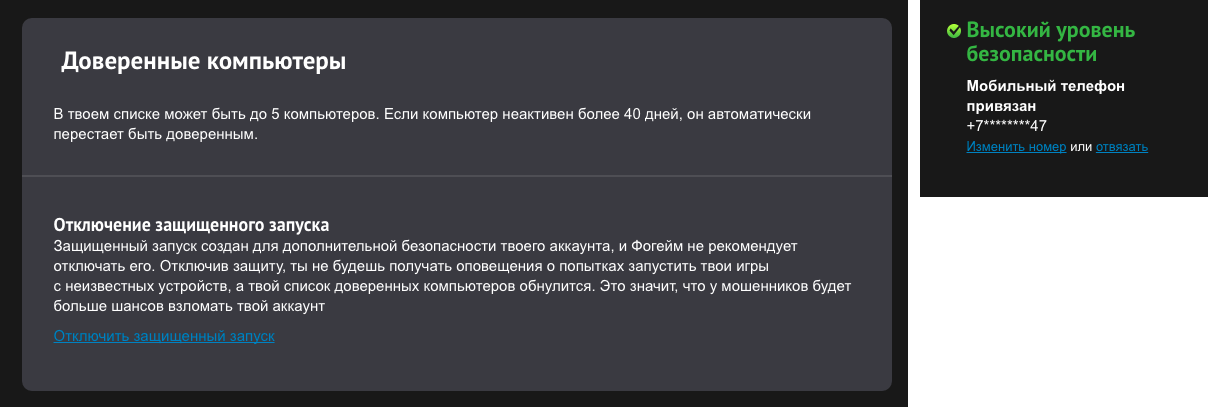
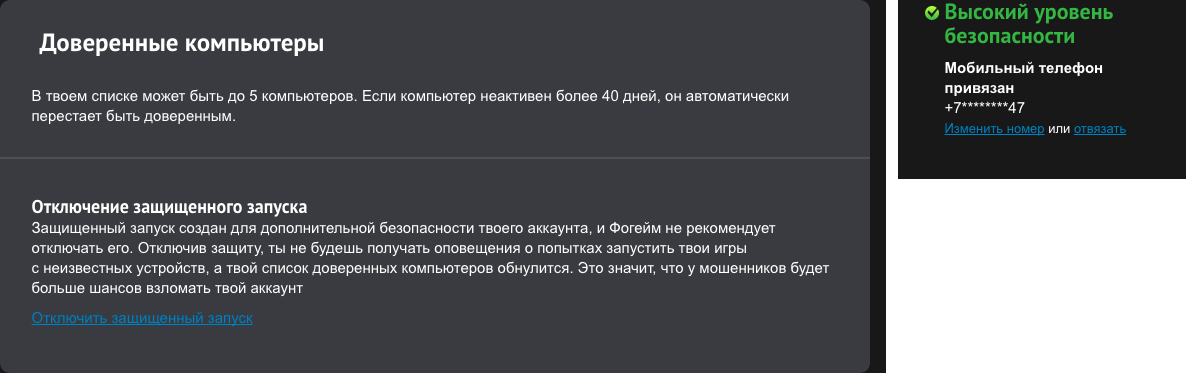
nice navigation

Changed region(s): [[0.0, 0.0, 1.0, 1.0]]

diff --git a/libs/styles/global.less b/libs/styles/global.less
@@ -6,14 +6,14 @@
 }
 
 body {
-	background-color: #181818;
+	background-color: #151517;
 	color: white;
 	font-family: PT Sans, Arial, sans-serif;
 	margin: 0;
 	line-height: 1.4;
 
 	&.black {
-		background-color: black;
+		background-color: #232427;
 	}
 }
 
@@ -195,11 +195,53 @@ a {
 	}
 }
 
+.filter {
+	position: relative;
+	background-color: rgba(255, 255, 255, .1);
+	padding: 5px 10px;
+	border-radius: 5px;
+	-webkit-user-select: none;
+	display: inline-block;
+
+	a {
+		color: white;
+		transition: opacity .1s;
+		opacity: .5;
+
+		&:hover {
+			opacity: .75;
+		}
+	}
+
+	.dropdown__arrow {
+		display: inline-block;
+		top: -3px;
+		margin-left: 5px;
+	}
+
+	&--pb {
+
+		&:before {
+			content: '';
+			position: absolute;
+			left: -35px;
+			width: 26px;
+			height: 26px;
+			background-image: url(../img/pb-icon.png);
+			background-size: 26px;
+			top: 2px;
+		}
+
+		&:after {
+
+		}
+	}
+}
+
 .tabs {
 	background-color: rgba(255, 255, 255, .1);
 	border-radius: 5px;
 	display: inline-block;
-	margin-bottom: 30px;
 
 	&__item {
 		display: inline-block;
@@ -225,5 +267,16 @@ a {
 				color: rgba(0, 0, 0, .9)!important;
 			}
 		}
+	}
+}
+
+.tabmenu {
+	display:flex;
+	justify-content: center;
+
+	.filter {
+		margin-left: 60px;
+		position: absolute;
+		right: 0;
 	}
 }

diff --git a/invite.html b/invite.html
@@ -82,14 +82,14 @@
 
 	<div class="content container">
 		<div class="tabmenu">
-			<div class="tabs">
+			<div class="tabs tabmenu__item">
 				<div class="tabs__item tabs__item--active"><a>Привести друга</a></div>
 				<div class="tabs__item"><a>Вернуть друга</a></div>
 			</div>
-			<div class="filter filter--pb"><a>Point Blank <i class="dropdown__arrow"></i></a></div>
+			<div class="filter tabmenu__item filter--pb"><a>Point Blank <i class="dropdown__arrow"></i></a></div>
 		</div>
-		<h1 class="content__h1">Приведи друга в <a>Point Blank</a></br> и оба получите награды</h1>
-		<img style="margin-top:50px" src="img/invite-new-page.png" alt="">
+		<h2 class="content__h2">Приведи друга, который не играл раньше в Point Blank</br> и оба получите награды</h2>
+		<img style="margin-top: 30px" src="img/invite-new-page.png" alt="">
 	</div>
 
 	<div class="footer container">

diff --git a/settings.html b/settings.html
@@ -80,12 +80,14 @@
 		</div>
 	</div>
 
-	<div class="content container">
-		<div class="tabs">
-			<div class="tabs__item tabs__item--active"><a>Параметры входа</a></div>
-			<div class="tabs__item"><a>Личные данные</a></div>
-			<div class="tabs__item"><a>Безопасность</a></div>
-			<div class="tabs__item"><a>Уведомления</a></div>
+	<div class="content content--settings container">
+		<div class="tabmenu">
+			<div class="tabs">
+				<div class="tabs__item tabs__item--active"><a>Параметры входа</a></div>
+				<div class="tabs__item"><a>Личные данные</a></div>
+				<div class="tabs__item"><a>Безопасность</a></div>
+				<div class="tabs__item"><a>Уведомления</a></div>
+			</div>
 		</div>
 		<img src="img/settings-page.png" alt="">
 

diff --git a/achievements.html b/achievements.html
@@ -81,9 +81,12 @@
 	</div>
 
 	<div class="content content--achievements container">
-		<div class="tabs">
-			<div class="tabs__item tabs__item--active"><a>Список достижений</a></div>
-			<div class="tabs__item"><a>О достижениях</a></div>
+		<div class="tabmenu">
+			<div class="tabs">
+				<div class="tabs__item tabs__item--active"><a>Список достижений</a></div>
+				<div class="tabs__item"><a>О достижениях</a></div>
+			</div>
+			<div class="filter tabmenu__item filter--pb"><a>Point Blank <i class="dropdown__arrow"></i></a></div>
 		</div>
 		<img src="img/ach-page.png" alt="">
 	</div>

diff --git a/quests.html b/quests.html
@@ -81,11 +81,11 @@
 	</div>
 
 	<div class="content container">
-		<div class="content__header">
-			<h1 class="content__h1">Получай награду за каждые</br> три задания в <a>Point Blank</a></h1>
-			<img src="img/quests-page.png" alt="">
+		<div class="tabmenu">
+			<div style="margin-left: 0px;" class="filter tabmenu__item filter--pb"><a>Point Blank <i class="dropdown__arrow"></i></a></div>
 		</div>
-
+		<h2 class="content__h2">Получай награду за каждые 3 задания</h2>
+		<img src="img/quests-page.png" alt="">
 	</div>
 
 	<div class="footer container">

diff --git a/libs/styles/profile.less b/libs/styles/profile.less
@@ -13,13 +13,27 @@
 		}
 	}
 
+	&__h2 {
+		font-size: 28px;
+		line-height: 38px;
+		margin: 50px 0 20px;
+		// font-weight: bold;
+	}
+
 	&--main {
 		margin: 30px auto 0;
 	}
 
 	&--achievements {
 
-		.tabs {
+		.tabmenu {
+			margin-bottom: 60px;
+		}
+	}
+
+	&--settings {
+
+		.tabmenu {
 			margin-bottom: 60px;
 		}
 	}

diff --git a/libs/styles/head.less b/libs/styles/head.less
@@ -2,7 +2,7 @@
 
 .head {
 	padding: 35px 0 0;
-	background-color: black;
+	background-color: #232427;
 
 	&__user {
 		display: flex;

diff --git a/libs/styles/bar.less b/libs/styles/bar.less
@@ -2,7 +2,7 @@
 
 .bar {
 	height: 35px;
-	background-color: #222;
+	background-color: #17181a;
 
 	.container {
 		display: flex;
